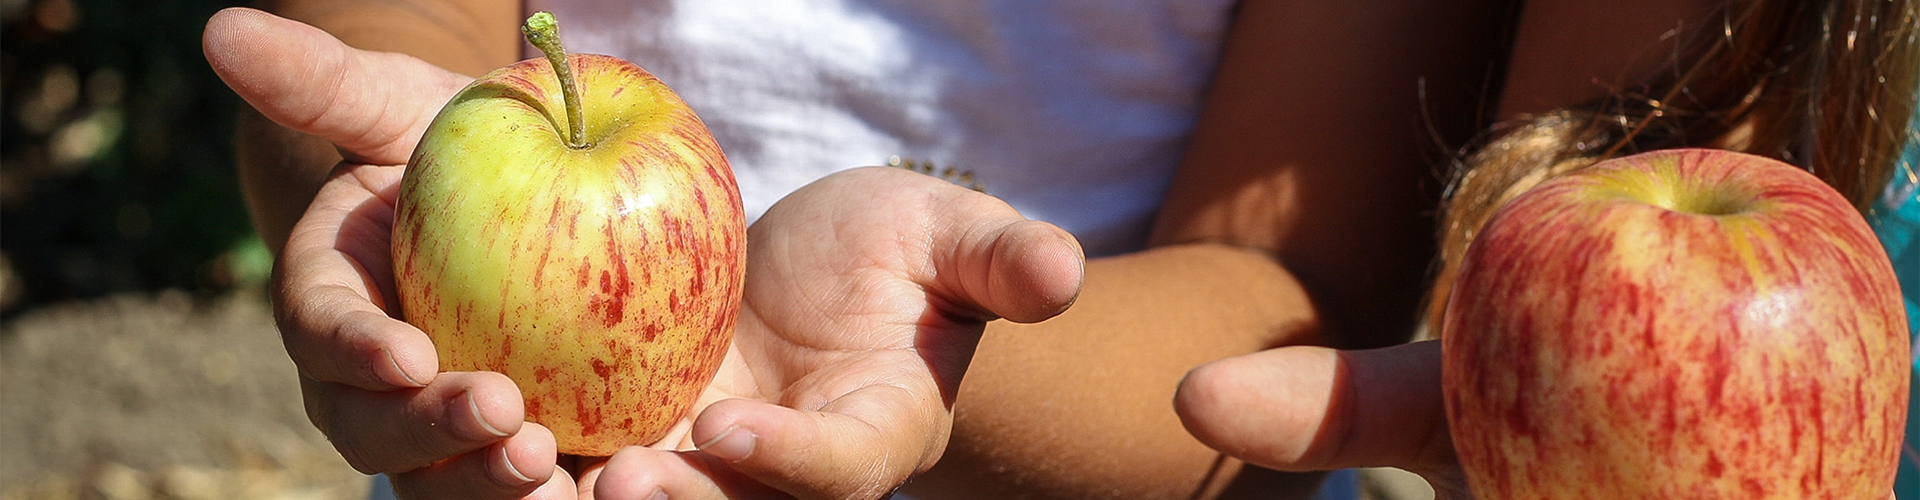
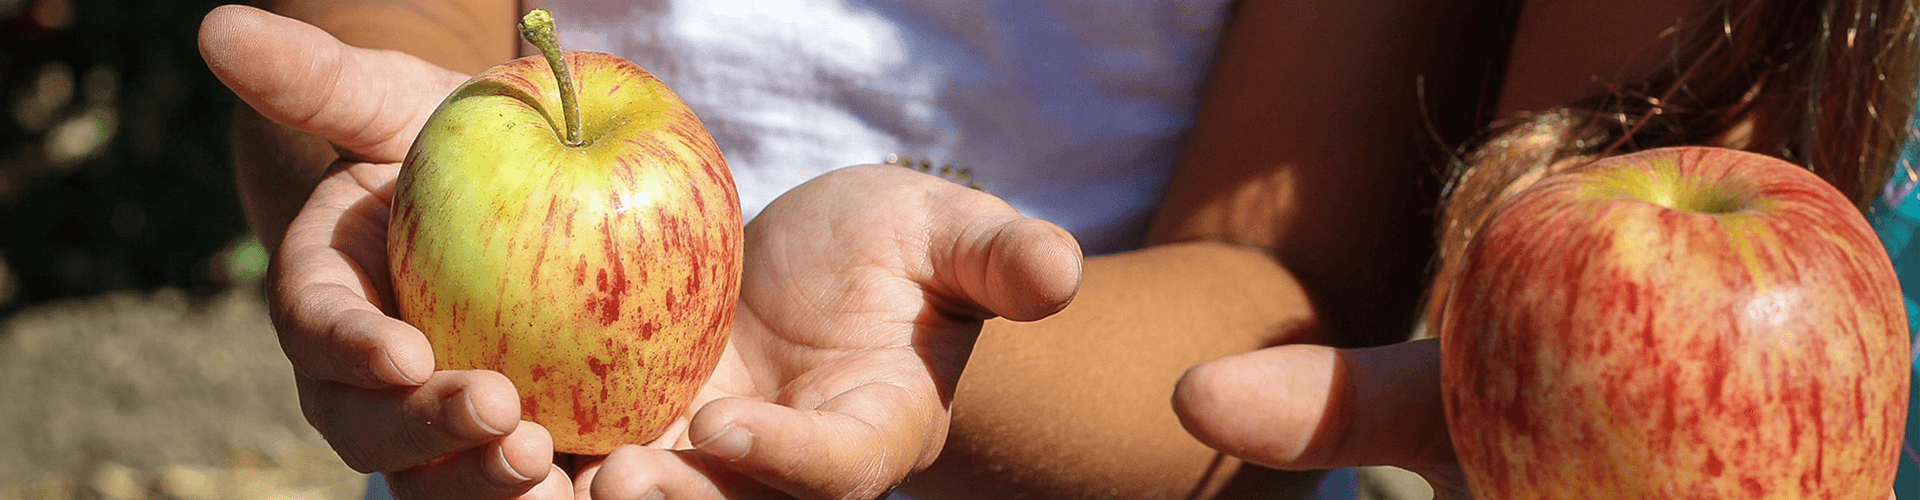
Add mobile sized images

diff --git a/src/styles/Programs.scss b/src/styles/Programs.scss
@@ -6,7 +6,7 @@
 	
 	&__hero {
 		align-items: center;
-		background: url(../images/apple-500px.png) no-repeat;
+		background: url(../images/apple-mobile.png) no-repeat;
 		background-position: center;
 		background-size: cover;
 		display: flex;
@@ -29,7 +29,6 @@
 		margin: 0;
 		text-align: center;
 	}
-
 	
 }
 
@@ -39,5 +38,11 @@
 @media (min-width: $screen-sm-min) {
 	.Programs {
 		margin-top: $header-height-sm-min;
+		
+		&__hero {
+			background: url(../images/apple-500px.png) no-repeat;
+			background-position: center;
+			background-size: cover;
+		}
 	}
 }

diff --git a/src/styles/Home.scss b/src/styles/Home.scss
@@ -6,7 +6,7 @@
 	
 	&__hero {
 		align-items: center;
-		background: url(../images/cookies-500px.png) no-repeat;
+		background: url(../images/cookies-mobile.png) no-repeat;
 		background-position: center;
 		background-size: cover;
 		display: flex;
@@ -123,6 +123,12 @@
 @media (min-width: $screen-sm-min) {
 	.Home {
 		margin-top: $header-height-sm-min;
+		
+		&__hero {
+			background: url(../images/cookies-500px.png) no-repeat;
+			background-position: center;
+			background-size: cover;
+		}
 		
 		&__modal {
 			border-radius: 20px;

diff --git a/src/styles/OurStory.scss b/src/styles/OurStory.scss
@@ -6,7 +6,7 @@
 	
 	&__hero {
 		align-items: center;
-		background: url(../images/popsicle-500px.png) no-repeat;
+		background: url(../images/popsicle-mobile.png) no-repeat;
 		background-position: center;
 		background-size: cover;
 		display: flex;
@@ -50,6 +50,12 @@
 @media (min-width: $screen-sm-min) {
 	.OurStory {
 		margin-top: $header-height-sm-min;
+		
+			&__hero {
+			background: url(../images/popsicle-500px.png) no-repeat;
+			background-position: center;
+			background-size: cover;
+		}
 	}
 }
 

diff --git a/src/styles/Contact.scss b/src/styles/Contact.scss
@@ -6,7 +6,7 @@
 	
 	&__hero {
 		align-items: center;
-		background: url(../images/cakepops-500px.png) no-repeat;
+		background: url(../images/cakepops-mobile.png) no-repeat;
 		background-position: center;
 		background-size: cover;
 		display: flex;
@@ -56,6 +56,12 @@
 @media (min-width: $screen-sm-min) {
 	.Contact {
 		margin-top: $header-height-sm-min;
+		
+		&__hero {
+			background: url(../images/cakepops-500px.png) no-repeat;
+			background-position: center;
+			background-size: cover;
+		}
 	}
 }
 
